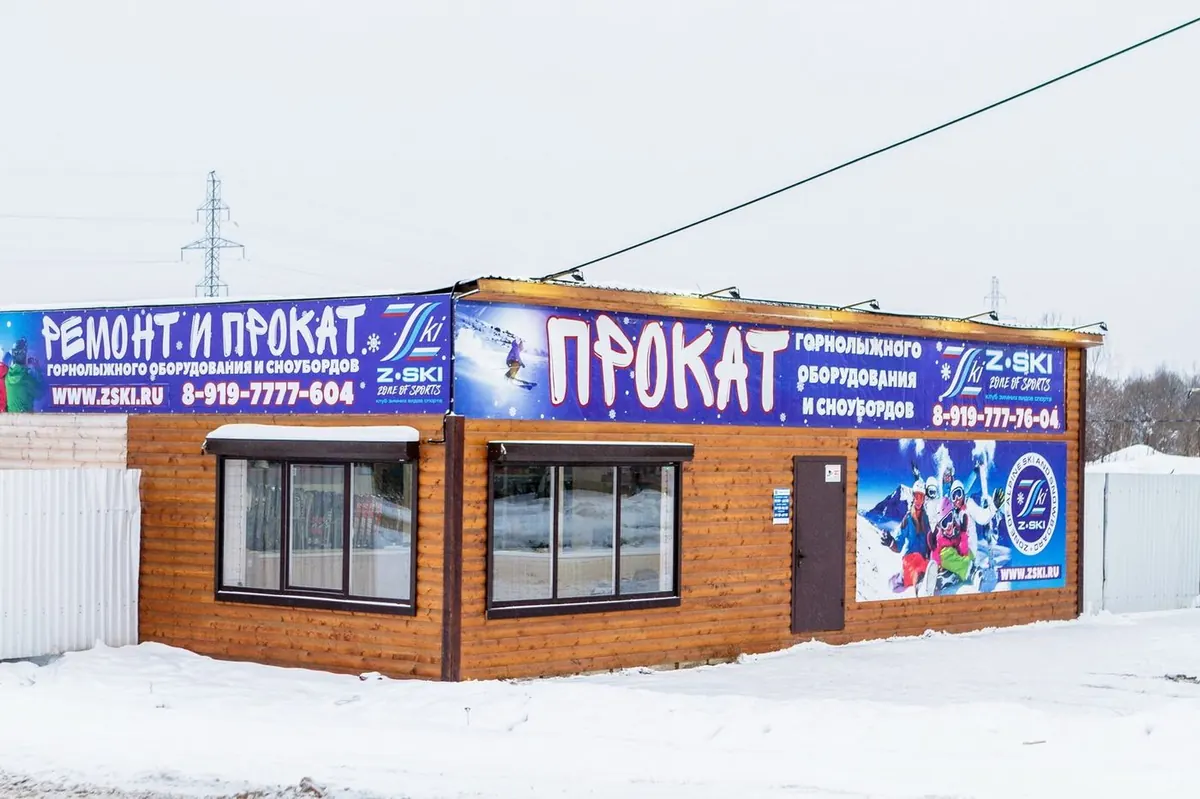
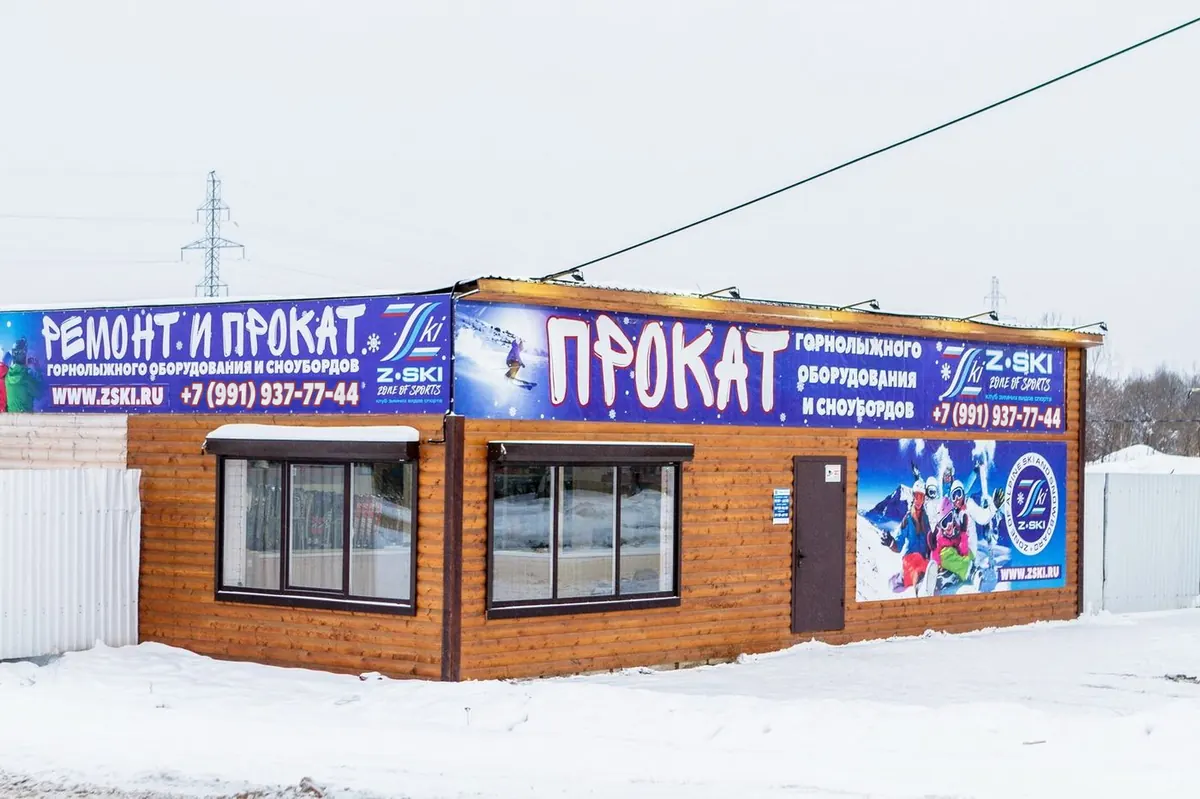
fix: Update phone number on exterior photos

Changed region(s): [[0.1542, 0.4506, 0.3083, 0.5106], [0.7708, 0.4806, 0.8942, 0.5407]]

diff --git a/index.html b/index.html
@@ -630,7 +630,7 @@ window.__zskiIntro={show:show,restore:show&&type==="back_forward"?s.p:null};
 /* Скрипт интро не загрузился или упал — сразу показываем сайт */
 window.__zskiIntroFail=function(){var h=document.querySelector(".intro-host");if(h)h.hidden=true;d.classList.remove("intro-open");dispatchEvent(new Event("zski:intro-closed"))};
 var l=document.createElement("link");l.rel="preload";l.as="image";l.type="image/webp";l.href=show?(matchMedia("(orientation: portrait)").matches?"img/photos/intro-poster-portrait.webp":"img/photos/intro-poster.webp"):"img/photos/hero-freeride.webp";l.setAttribute("fetchpriority","high");document.head.appendChild(l);
-if(show){var j=document.createElement("link");j.rel="preload";j.as="script";j.href="js/intro.js?v=202611170512";document.head.appendChild(j)}
+if(show){var j=document.createElement("link");j.rel="preload";j.as="script";j.href="js/intro.js?v=202611170532";document.head.appendChild(j)}
 if(show){d.classList.add("intro-open");setTimeout(function(){if(!(window.__zskiIntro&&window.__zskiIntro.booted)){d.classList.remove("intro-open");dispatchEvent(new Event("zski:intro-closed"))}},8000)}})();
 </script>
 <style>html.intro-open,html.intro-open body{background:#1a2230;overflow:hidden}html.intro-open body>:not(.intro-host){display:none!important}.intro-host{position:fixed;inset:0;z-index:5000;transition:opacity .4s ease}.intro-host[hidden]{display:none}html.intro-open .intro-host[hidden]{display:block}.intro-host.closing{opacity:0;pointer-events:none}</style>
@@ -654,10 +654,6 @@ html,body{margin:0;height:100%;background:#1a2230;color:#fff;font-family:var(--f
 .arrival-scene{position:absolute;top:50%;left:50%;width:max(100vw,150.1vh);aspect-ratio:1400/933;transform:translate(-50%,-50%) scale(1.06);transition:transform 2.4s ease-out}
 .stage.arrival-on .arrival-scene{transform:translate(-50%,-50%) scale(1.13)}
 .arrival-scene img{display:block;width:100%;height:100%}
-/* На архивном фасаде напечатаны два старых номера. */
-.arrival-scene::before,.arrival-scene::after{content:"";position:absolute;z-index:1;background:linear-gradient(150deg,#3d3e94,#292c73)}
-.arrival-scene::before{left:14.65%;top:47.25%;width:15.5%;height:4.2%}
-.arrival-scene::after{left:77.2%;top:49.8%;width:11.8%;height:4.7%}
 .arrival-sign{position:absolute;z-index:2;bottom:65.5%;left:54.5%;transform:translateX(-50%) rotate(1deg);padding:.18em .48em;border:1px solid rgba(255,255,255,.5);border-radius:.15em;background:#cf211b;color:#fff;font-family:var(--display);font-size:clamp(1.55rem,min(5vw,8.2vh),3.5rem);font-weight:800;letter-spacing:.05em;white-space:nowrap;box-shadow:0 8px 24px rgba(27,11,16,.32)}
 .arrival-sign::before,.arrival-sign::after{content:"";position:absolute;top:100%;width:.085em;height:.36em;background:#3e3e44}
 .arrival-sign::before{left:11%}.arrival-sign::after{right:11%}
@@ -804,14 +800,14 @@ body.pov .lens,.stage.pov .lens{display:block}
     <img id="poster" src="img/photos/intro-poster.webp" alt="" fetchpriority="high">
   </picture>
   <video id="v" muted playsinline preload="none" aria-label="Видео: горнолыжник спускается по склону">
-    <source media="(orientation: portrait)" src="video/portrait/descent.webm?v=202611170512" type='video/webm; codecs="vp9"'>
-    <source media="(orientation: portrait)" src="video/portrait/descent.mp4?v=202611170512" type="video/mp4">
-    <source src="video/descent.webm?v=202611170512" type='video/webm; codecs="vp9"'>
-    <source src="video/descent.mp4?v=202611170512" type="video/mp4">
+    <source media="(orientation: portrait)" src="video/portrait/descent.webm?v=202611170532" type='video/webm; codecs="vp9"'>
+    <source media="(orientation: portrait)" src="video/portrait/descent.mp4?v=202611170532" type="video/mp4">
+    <source src="video/descent.webm?v=202611170532" type='video/webm; codecs="vp9"'>
+    <source src="video/descent.mp4?v=202611170532" type="video/mp4">
   </video>
   <div class="arrival" aria-hidden="true">
     <div class="arrival-scene">
-      <img id="arrival-photo" data-src="img/photos/shop-exterior.webp" alt="" decoding="async">
+      <img id="arrival-photo" data-src="img/photos/shop-exterior.webp?v=202611170532" alt="" decoding="async">
       <span class="arrival-sign">Z-SKI</span>
     </div>
   </div>
@@ -1004,7 +1000,7 @@ body.pov .lens,.stage.pov .lens{display:block}
 <section class="section" style="padding-top:0">
   <div class="wrap">
     <div class="about">
-      <div class="photo" data-ph><picture><source srcset="img/photos/shop-exterior.webp" type="image/webp"><img src="img/photos/shop-exterior.jpg" alt="Павильон проката ZSKI" loading="lazy" decoding="async" data-fallback ></picture></div>
+      <div class="photo" data-ph><picture><source srcset="img/photos/shop-exterior.webp?v=202611170532" type="image/webp"><img src="img/photos/shop-exterior.jpg?v=202611170532" alt="Павильон проката ZSKI" loading="lazy" decoding="async" data-fallback ></picture></div>
       <div>
         <span class="eyebrow">О нашем клубе</span>
         <h2>Более 5 лет в прокате и сервисе</h2>
@@ -1179,7 +1175,7 @@ body.pov .lens,.stage.pov .lens{display:block}
 
 
 <!-- Слой интро «спуск к прокату» вставляется сборкой в начало <body> (intro: yes), см. js/intro.js -->
-<script src="js/intro.js?v=202611170512" defer onerror="window.__zskiIntroFail&&__zskiIntroFail()"></script>
+<script src="js/intro.js?v=202611170532" defer onerror="window.__zskiIntroFail&&__zskiIntroFail()"></script>
 
 </main>
 <footer>
@@ -1211,10 +1207,10 @@ body.pov .lens,.stage.pov .lens{display:block}
   <a class="btn btn-primary" data-phone="link" href="tel:+79919377744"><svg viewBox="0 0 24 24" fill="none" stroke="currentColor" stroke-width="2" stroke-linecap="round" stroke-linejoin="round"><path d="M22 16.9v3a2 2 0 0 1-2.2 2 19.8 19.8 0 0 1-8.6-3.1 19.5 19.5 0 0 1-6-6A19.8 19.8 0 0 1 2.1 4.2 2 2 0 0 1 4.1 2h3a2 2 0 0 1 2 1.7c.1.9.4 1.8.7 2.7a2 2 0 0 1-.5 2.1L8 9.8a16 16 0 0 0 6 6l1.3-1.3a2 2 0 0 1 2.1-.4c.9.3 1.8.6 2.7.7a2 2 0 0 1 1.9 2z"/></svg> Позвонить</a>
   <a class="btn btn-ghost" href="prices.html#calc"><svg viewBox="0 0 24 24" fill="none" stroke="currentColor" stroke-width="2" stroke-linecap="round"><rect x="4" y="2" width="16" height="20" rx="2"/><path d="M8 6h8M8 10h2M12 10h2M16 10h0M8 14h2M12 14h2M16 14v4M8 18h2M12 18h2"/></svg> Рассчитать</a>
 </div>
-<script src="js/data.js?v=202611170512" defer></script>
-<script src="js/hours.js?v=202611170512" defer></script>
-<script src="js/drive-links.js?v=202611170512" defer></script>
-<script src="js/main.js?v=202611170512" defer></script>
+<script src="js/data.js?v=202611170532" defer></script>
+<script src="js/hours.js?v=202611170532" defer></script>
+<script src="js/drive-links.js?v=202611170532" defer></script>
+<script src="js/main.js?v=202611170532" defer></script>
 <script>if("serviceWorker"in navigator)addEventListener("load",()=>{navigator.serviceWorker.register("sw.js").then((r)=>r.update()).catch(()=>{});});</script>
 </body>
 </html>

diff --git a/intro.html b/intro.html
@@ -10,8 +10,8 @@
 <link rel="icon" href="img/favicon-64.png" type="image/png">
 <link rel="preload" href="fonts/unbounded-800-cyrillic.woff2" as="font" type="font/woff2" crossorigin>
 <link rel="preload" href="fonts/manrope-700-cyrillic.woff2" as="font" type="font/woff2" crossorigin>
-<link rel="stylesheet" href="fonts/fonts.css?v=202611170512">
-<link rel="stylesheet" href="css/intro.css?v=202611170512">
+<link rel="stylesheet" href="fonts/fonts.css?v=202611170532">
+<link rel="stylesheet" href="css/intro.css?v=202611170532">
 </head>
 <body>
 <div class="stage waiting">
@@ -20,14 +20,14 @@
     <img id="poster" src="img/photos/intro-poster.webp" alt="" fetchpriority="high">
   </picture>
   <video id="v" muted playsinline preload="none" aria-label="Видео: горнолыжник спускается по склону">
-    <source media="(orientation: portrait)" src="video/portrait/descent.webm?v=202611170512" type='video/webm; codecs="vp9"'>
-    <source media="(orientation: portrait)" src="video/portrait/descent.mp4?v=202611170512" type="video/mp4">
-    <source src="video/descent.webm?v=202611170512" type='video/webm; codecs="vp9"'>
-    <source src="video/descent.mp4?v=202611170512" type="video/mp4">
+    <source media="(orientation: portrait)" src="video/portrait/descent.webm?v=202611170532" type='video/webm; codecs="vp9"'>
+    <source media="(orientation: portrait)" src="video/portrait/descent.mp4?v=202611170532" type="video/mp4">
+    <source src="video/descent.webm?v=202611170532" type='video/webm; codecs="vp9"'>
+    <source src="video/descent.mp4?v=202611170532" type="video/mp4">
   </video>
   <div class="arrival" aria-hidden="true">
     <div class="arrival-scene">
-      <img id="arrival-photo" data-src="img/photos/shop-exterior.webp" alt="" decoding="async">
+      <img id="arrival-photo" data-src="img/photos/shop-exterior.webp?v=202611170532" alt="" decoding="async">
       <span class="arrival-sign">Z-SKI</span>
     </div>
   </div>
@@ -95,9 +95,9 @@
 </div>
 <div class="fade" id="fade"></div>
 <noscript><div style="position:fixed;inset:0;display:grid;place-items:center;background:#1a2230"><a href="index.html" style="color:#fff">Перейти на сайт →</a></div></noscript>
-<script src="js/data.js?v=202611170512" defer></script>
-<script src="js/hours.js?v=202611170512" defer></script>
-<script src="js/drive-links.js?v=202611170512" defer></script>
-<script src="js/intro.js?v=202611170512"></script>
+<script src="js/data.js?v=202611170532" defer></script>
+<script src="js/hours.js?v=202611170532" defer></script>
+<script src="js/drive-links.js?v=202611170532" defer></script>
+<script src="js/intro.js?v=202611170532"></script>
 </body>
 </html>

diff --git a/contacts.html b/contacts.html
@@ -17,8 +17,8 @@
 <link rel="apple-touch-icon" href="img/apple-touch-icon.png">
 <link rel="preload" href="fonts/unbounded-800-cyrillic.woff2" as="font" type="font/woff2" crossorigin>
 <link rel="preload" href="fonts/manrope-500-cyrillic.woff2" as="font" type="font/woff2" crossorigin>
-<link rel="stylesheet" href="fonts/fonts.css?v=202611170512">
-<link rel="stylesheet" href="css/style.css?v=202611170512">
+<link rel="stylesheet" href="fonts/fonts.css?v=202611170532">
+<link rel="stylesheet" href="css/style.css?v=202611170532">
 <meta name="view-transition" content="same-origin">
 <script type="speculationrules">{"prerender":[{"source":"document","where":{"href_matches":"/*.html"},"eagerness":"moderate"}]}</script>
 <script type="application/ld+json">
@@ -180,10 +180,10 @@
   <a class="btn btn-primary" data-phone="link" href="tel:+79919377744"><svg viewBox="0 0 24 24" fill="none" stroke="currentColor" stroke-width="2" stroke-linecap="round" stroke-linejoin="round"><path d="M22 16.9v3a2 2 0 0 1-2.2 2 19.8 19.8 0 0 1-8.6-3.1 19.5 19.5 0 0 1-6-6A19.8 19.8 0 0 1 2.1 4.2 2 2 0 0 1 4.1 2h3a2 2 0 0 1 2 1.7c.1.9.4 1.8.7 2.7a2 2 0 0 1-.5 2.1L8 9.8a16 16 0 0 0 6 6l1.3-1.3a2 2 0 0 1 2.1-.4c.9.3 1.8.6 2.7.7a2 2 0 0 1 1.9 2z"/></svg> Позвонить</a>
   <a class="btn btn-ghost" href="prices.html#calc"><svg viewBox="0 0 24 24" fill="none" stroke="currentColor" stroke-width="2" stroke-linecap="round"><rect x="4" y="2" width="16" height="20" rx="2"/><path d="M8 6h8M8 10h2M12 10h2M16 10h0M8 14h2M12 14h2M16 14v4M8 18h2M12 18h2"/></svg> Рассчитать</a>
 </div>
-<script src="js/data.js?v=202611170512" defer></script>
-<script src="js/hours.js?v=202611170512" defer></script>
-<script src="js/drive-links.js?v=202611170512" defer></script>
-<script src="js/main.js?v=202611170512" defer></script>
+<script src="js/data.js?v=202611170532" defer></script>
+<script src="js/hours.js?v=202611170532" defer></script>
+<script src="js/drive-links.js?v=202611170532" defer></script>
+<script src="js/main.js?v=202611170532" defer></script>
 <script>if("serviceWorker"in navigator)addEventListener("load",()=>{navigator.serviceWorker.register("sw.js").then((r)=>r.update()).catch(()=>{});});</script>
 </body>
 </html>

diff --git a/prices.html b/prices.html
@@ -17,8 +17,8 @@
 <link rel="apple-touch-icon" href="img/apple-touch-icon.png">
 <link rel="preload" href="fonts/unbounded-800-cyrillic.woff2" as="font" type="font/woff2" crossorigin>
 <link rel="preload" href="fonts/manrope-500-cyrillic.woff2" as="font" type="font/woff2" crossorigin>
-<link rel="stylesheet" href="fonts/fonts.css?v=202611170512">
-<link rel="stylesheet" href="css/style.css?v=202611170512">
+<link rel="stylesheet" href="fonts/fonts.css?v=202611170532">
+<link rel="stylesheet" href="css/style.css?v=202611170532">
 <meta name="view-transition" content="same-origin">
 <script type="speculationrules">{"prerender":[{"source":"document","where":{"href_matches":"/*.html"},"eagerness":"moderate"}]}</script>
 
@@ -151,10 +151,10 @@
   <a class="btn btn-primary" data-phone="link" href="tel:+79919377744"><svg viewBox="0 0 24 24" fill="none" stroke="currentColor" stroke-width="2" stroke-linecap="round" stroke-linejoin="round"><path d="M22 16.9v3a2 2 0 0 1-2.2 2 19.8 19.8 0 0 1-8.6-3.1 19.5 19.5 0 0 1-6-6A19.8 19.8 0 0 1 2.1 4.2 2 2 0 0 1 4.1 2h3a2 2 0 0 1 2 1.7c.1.9.4 1.8.7 2.7a2 2 0 0 1-.5 2.1L8 9.8a16 16 0 0 0 6 6l1.3-1.3a2 2 0 0 1 2.1-.4c.9.3 1.8.6 2.7.7a2 2 0 0 1 1.9 2z"/></svg> Позвонить</a>
   <a class="btn btn-ghost" href="prices.html#calc"><svg viewBox="0 0 24 24" fill="none" stroke="currentColor" stroke-width="2" stroke-linecap="round"><rect x="4" y="2" width="16" height="20" rx="2"/><path d="M8 6h8M8 10h2M12 10h2M16 10h0M8 14h2M12 14h2M16 14v4M8 18h2M12 18h2"/></svg> Рассчитать</a>
 </div>
-<script src="js/data.js?v=202611170512" defer></script>
-<script src="js/hours.js?v=202611170512" defer></script>
-<script src="js/drive-links.js?v=202611170512" defer></script>
-<script src="js/main.js?v=202611170512" defer></script>
+<script src="js/data.js?v=202611170532" defer></script>
+<script src="js/hours.js?v=202611170532" defer></script>
+<script src="js/drive-links.js?v=202611170532" defer></script>
+<script src="js/main.js?v=202611170532" defer></script>
 <script>if("serviceWorker"in navigator)addEventListener("load",()=>{navigator.serviceWorker.register("sw.js").then((r)=>r.update()).catch(()=>{});});</script>
 </body>
 </html>

diff --git a/service.html b/service.html
@@ -17,8 +17,8 @@
 <link rel="apple-touch-icon" href="img/apple-touch-icon.png">
 <link rel="preload" href="fonts/unbounded-800-cyrillic.woff2" as="font" type="font/woff2" crossorigin>
 <link rel="preload" href="fonts/manrope-500-cyrillic.woff2" as="font" type="font/woff2" crossorigin>
-<link rel="stylesheet" href="fonts/fonts.css?v=202611170512">
-<link rel="stylesheet" href="css/style.css?v=202611170512">
+<link rel="stylesheet" href="fonts/fonts.css?v=202611170532">
+<link rel="stylesheet" href="css/style.css?v=202611170532">
 <meta name="view-transition" content="same-origin">
 <script type="speculationrules">{"prerender":[{"source":"document","where":{"href_matches":"/*.html"},"eagerness":"moderate"}]}</script>
 
@@ -148,10 +148,10 @@
   <a class="btn btn-primary" data-phone="link" href="tel:+79919377744"><svg viewBox="0 0 24 24" fill="none" stroke="currentColor" stroke-width="2" stroke-linecap="round" stroke-linejoin="round"><path d="M22 16.9v3a2 2 0 0 1-2.2 2 19.8 19.8 0 0 1-8.6-3.1 19.5 19.5 0 0 1-6-6A19.8 19.8 0 0 1 2.1 4.2 2 2 0 0 1 4.1 2h3a2 2 0 0 1 2 1.7c.1.9.4 1.8.7 2.7a2 2 0 0 1-.5 2.1L8 9.8a16 16 0 0 0 6 6l1.3-1.3a2 2 0 0 1 2.1-.4c.9.3 1.8.6 2.7.7a2 2 0 0 1 1.9 2z"/></svg> Позвонить</a>
   <a class="btn btn-ghost" href="prices.html#calc"><svg viewBox="0 0 24 24" fill="none" stroke="currentColor" stroke-width="2" stroke-linecap="round"><rect x="4" y="2" width="16" height="20" rx="2"/><path d="M8 6h8M8 10h2M12 10h2M16 10h0M8 14h2M12 14h2M16 14v4M8 18h2M12 18h2"/></svg> Рассчитать</a>
 </div>
-<script src="js/data.js?v=202611170512" defer></script>
-<script src="js/hours.js?v=202611170512" defer></script>
-<script src="js/drive-links.js?v=202611170512" defer></script>
-<script src="js/main.js?v=202611170512" defer></script>
+<script src="js/data.js?v=202611170532" defer></script>
+<script src="js/hours.js?v=202611170532" defer></script>
+<script src="js/drive-links.js?v=202611170532" defer></script>
+<script src="js/main.js?v=202611170532" defer></script>
 <script>if("serviceWorker"in navigator)addEventListener("load",()=>{navigator.serviceWorker.register("sw.js").then((r)=>r.update()).catch(()=>{});});</script>
 </body>
 </html>

diff --git a/slopes.html b/slopes.html
@@ -17,8 +17,8 @@
 <link rel="apple-touch-icon" href="img/apple-touch-icon.png">
 <link rel="preload" href="fonts/unbounded-800-cyrillic.woff2" as="font" type="font/woff2" crossorigin>
 <link rel="preload" href="fonts/manrope-500-cyrillic.woff2" as="font" type="font/woff2" crossorigin>
-<link rel="stylesheet" href="fonts/fonts.css?v=202611170512">
-<link rel="stylesheet" href="css/style.css?v=202611170512">
+<link rel="stylesheet" href="fonts/fonts.css?v=202611170532">
+<link rel="stylesheet" href="css/style.css?v=202611170532">
 <meta name="view-transition" content="same-origin">
 <script type="speculationrules">{"prerender":[{"source":"document","where":{"href_matches":"/*.html"},"eagerness":"moderate"}]}</script>
 
@@ -207,10 +207,10 @@
   <a class="btn btn-primary" data-phone="link" href="tel:+79919377744"><svg viewBox="0 0 24 24" fill="none" stroke="currentColor" stroke-width="2" stroke-linecap="round" stroke-linejoin="round"><path d="M22 16.9v3a2 2 0 0 1-2.2 2 19.8 19.8 0 0 1-8.6-3.1 19.5 19.5 0 0 1-6-6A19.8 19.8 0 0 1 2.1 4.2 2 2 0 0 1 4.1 2h3a2 2 0 0 1 2 1.7c.1.9.4 1.8.7 2.7a2 2 0 0 1-.5 2.1L8 9.8a16 16 0 0 0 6 6l1.3-1.3a2 2 0 0 1 2.1-.4c.9.3 1.8.6 2.7.7a2 2 0 0 1 1.9 2z"/></svg> Позвонить</a>
   <a class="btn btn-ghost" href="prices.html#calc"><svg viewBox="0 0 24 24" fill="none" stroke="currentColor" stroke-width="2" stroke-linecap="round"><rect x="4" y="2" width="16" height="20" rx="2"/><path d="M8 6h8M8 10h2M12 10h2M16 10h0M8 14h2M12 14h2M16 14v4M8 18h2M12 18h2"/></svg> Рассчитать</a>
 </div>
-<script src="js/data.js?v=202611170512" defer></script>
-<script src="js/hours.js?v=202611170512" defer></script>
-<script src="js/drive-links.js?v=202611170512" defer></script>
-<script src="js/main.js?v=202611170512" defer></script>
+<script src="js/data.js?v=202611170532" defer></script>
+<script src="js/hours.js?v=202611170532" defer></script>
+<script src="js/drive-links.js?v=202611170532" defer></script>
+<script src="js/main.js?v=202611170532" defer></script>
 <script>if("serviceWorker"in navigator)addEventListener("load",()=>{navigator.serviceWorker.register("sw.js").then((r)=>r.update()).catch(()=>{});});</script>
 </body>
 </html>

diff --git a/css/intro.css b/css/intro.css
@@ -16,10 +16,6 @@ html,body{margin:0;height:100%;background:#1a2230;color:#fff;font-family:var(--f
 .arrival-scene{position:absolute;top:50%;left:50%;width:max(100vw,150.1vh);aspect-ratio:1400/933;transform:translate(-50%,-50%) scale(1.06);transition:transform 2.4s ease-out}
 .stage.arrival-on .arrival-scene{transform:translate(-50%,-50%) scale(1.13)}
 .arrival-scene img{display:block;width:100%;height:100%}
-/* На архивном фасаде напечатаны два старых номера. */
-.arrival-scene::before,.arrival-scene::after{content:"";position:absolute;z-index:1;background:linear-gradient(150deg,#3d3e94,#292c73)}
-.arrival-scene::before{left:14.65%;top:47.25%;width:15.5%;height:4.2%}
-.arrival-scene::after{left:77.2%;top:49.8%;width:11.8%;height:4.7%}
 .arrival-sign{position:absolute;z-index:2;bottom:65.5%;left:54.5%;transform:translateX(-50%) rotate(1deg);padding:.18em .48em;border:1px solid rgba(255,255,255,.5);border-radius:.15em;background:#cf211b;color:#fff;font-family:var(--display);font-size:clamp(1.55rem,min(5vw,8.2vh),3.5rem);font-weight:800;letter-spacing:.05em;white-space:nowrap;box-shadow:0 8px 24px rgba(27,11,16,.32)}
 .arrival-sign::before,.arrival-sign::after{content:"";position:absolute;top:100%;width:.085em;height:.36em;background:#3e3e44}
 .arrival-sign::before{left:11%}.arrival-sign::after{right:11%}

diff --git a/src/pages/index.html b/src/pages/index.html
@@ -106,7 +106,7 @@ intro: yes
 <section class="section" style="padding-top:0">
   <div class="wrap">
     <div class="about">
-      <div class="photo" data-ph><picture><source srcset="img/photos/shop-exterior.webp" type="image/webp"><img src="img/photos/shop-exterior.jpg" alt="Павильон проката ZSKI" loading="lazy" decoding="async" data-fallback ></picture></div>
+      <div class="photo" data-ph><picture><source srcset="img/photos/shop-exterior.webp?v={{BUILD}}" type="image/webp"><img src="img/photos/shop-exterior.jpg?v={{BUILD}}" alt="Павильон проката ZSKI" loading="lazy" decoding="async" data-fallback ></picture></div>
       <div>
         <span class="eyebrow">О нашем клубе</span>
         <h2>Более 5 лет в прокате и сервисе</h2>

diff --git a/sw.js b/sw.js
@@ -7,7 +7,7 @@
    Новая версия воркера просто начинает отвечать на следующие запросы — страницу не перезагружаем:
    HTML и так приходит из сети, а у CSS/JS в адресе новая версия сборки.
    VERSION подставляется при сборке, старые кэши ZSKI удаляются. */
-const VERSION = "zski-202611170512";
+const VERSION = "zski-202611170532";
 const IMMUTABLE = /\.(woff2|webp|jpg|png|svg)$/;
 self.addEventListener("install", () => self.skipWaiting());
 self.addEventListener("activate", (e) => {

diff --git a/src/pages/intro.html b/src/pages/intro.html
@@ -27,7 +27,7 @@
   </video>
   <div class="arrival" aria-hidden="true">
     <div class="arrival-scene">
-      <img id="arrival-photo" data-src="img/photos/shop-exterior.webp" alt="" decoding="async">
+      <img id="arrival-photo" data-src="img/photos/shop-exterior.webp?v={{BUILD}}" alt="" decoding="async">
       <span class="arrival-sign">Z-SKI</span>
     </div>
   </div>
